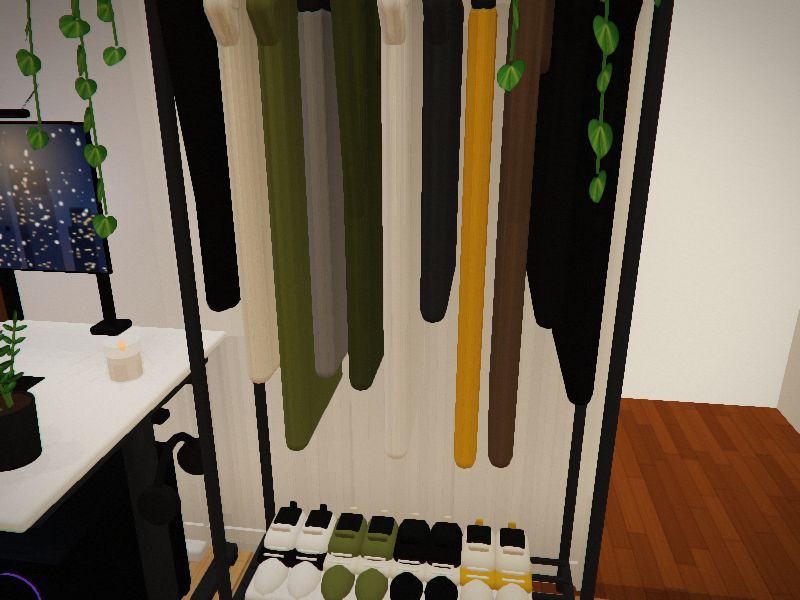
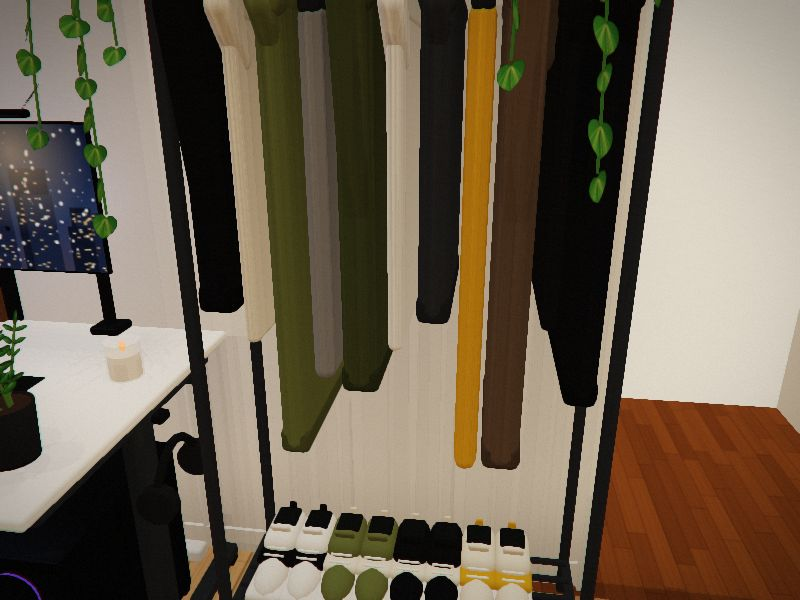
Séance 32 (suite) : vêtements du portant plus réalistes (épaisseurs, bord-côte)
Claude-Session: https://claude.ai/code/session_01SepMHyEogJJnegoMaCAg7f

diff --git a/index.html b/index.html
@@ -525,8 +525,9 @@ Lathe(158,0,92,[[0,0],[11,0],[12,26],[11.4,26],[10.4,1],[0,1]],M(0xF4F4F2,{rough
   add(new THREE.Mesh(new THREE.TubeGeometry(new THREE.QuadraticBezierCurve3(new THREE.Vector3(0,-4,-20),new THREE.Vector3(0,3,0),new THREE.Vector3(0,-4,20)),12,.5,6),M(0x111111)),g);
   const cm2=M(c,{roughness:1}),kind=i%4;
   if(kind==3){RB(-2,2,-10,-4,-19,19,1.2,M(0x2a2a2a,{metalness:.5}),g,1);RB(-2.4,2.4,-10-L*1.2,-8,-19,-1,2.4,cm2,g,2);RB(-2.4,2.4,-10-L*1.2,-8,1,19,2.4,cm2,g,2)}
-  else{RB(-2.6,2.6,-8-L,-4,-19,19,3,cm2,g,2);RB(-2.4,2.4,-11,-3,-23,23,4,cm2,g,2);
-   [-1,1].forEach(sd=>{const sl=Grp(0,-6,sd*22,0,g);sl.rotation.x=sd*(kind==0?.18:.75);RB(-2.2,2.2,kind==0?-L*.95:-16,0,-4,4,2.2,cm2,sl,2);if(kind==0)RB(-2.4,2.4,-L*.95-6,-L*.95,-3.4,3.4,1.6,cm2,sl,1)});
+  else{const th=[3.8,1.5,3.1][kind],Lk=kind==1?Math.min(L,64):L;RB(-th,th,-8-Lk,-4,-19,19,Math.min(3,th*.95),cm2,g,2);RB(-th-.3,th+.3,-11,-3,-23,23,Math.min(4,th+.2),cm2,g,2);
+   if(kind!=1){const dk=((c>>16&255)*.8<<16)|((c>>8&255)*.8<<8)|((c&255)*.8|0);RB(-th-.25,th+.25,-8-Lk,-2-Lk,-18.6,18.6,Math.min(1.6,th),M(dk,{roughness:1}),g,1)}
+   [-1,1].forEach(sd=>{const sl=Grp(0,-6,sd*22,0,g);sl.rotation.x=sd*(kind==0?.18:.75);RB(-2.2-(kind==0)*.8,2.2+(kind==0)*.8,kind==0?-L*.95:-16,0,-4,4,2.2,cm2,sl,2);if(kind==0)RB(-3.2,3.2,-L*.95-6,-L*.95,-3.4,3.4,1.6,cm2,sl,1)});
    if(kind==0){RB(-2,6,-20,-2,-10,10,4,cm2,g,2);RB(-2.8,-2.4,-36-L*.3,-28,-7,7,1.5,cm2,g,1)}}}
  [[178,0xF4F2EC,C.black],[196,C.olive,0xEDE5D3],[214,C.black,0xEDE5D3],[232,0xEDE5D3,C.jaune]].forEach(([x,c,a],i)=>{sneaker(x,14,20,c,a,0);sneaker(x+9,14,20,c,a,0)});
  Lathe(240,176,30,[[0,0],[5,0],[6.2,10],[5.6,10],[4.6,1],[0,1]],M(0xC56B45,{roughness:.8}),18);Cy(240,30,184.6,185.2,5.5,M(0x3b2c22,{roughness:1}),null,14);pothos(240,185,30,[[-6,16,42],[5,18,58],[10,15,30]])}

diff --git a/source/room.js b/source/room.js
@@ -361,8 +361,9 @@ Lathe(158,0,92,[[0,0],[11,0],[12,26],[11.4,26],[10.4,1],[0,1]],M(0xF4F4F2,{rough
   add(new THREE.Mesh(new THREE.TubeGeometry(new THREE.QuadraticBezierCurve3(new THREE.Vector3(0,-4,-20),new THREE.Vector3(0,3,0),new THREE.Vector3(0,-4,20)),12,.5,6),M(0x111111)),g);
   const cm2=M(c,{roughness:1}),kind=i%4;
   if(kind==3){RB(-2,2,-10,-4,-19,19,1.2,M(0x2a2a2a,{metalness:.5}),g,1);RB(-2.4,2.4,-10-L*1.2,-8,-19,-1,2.4,cm2,g,2);RB(-2.4,2.4,-10-L*1.2,-8,1,19,2.4,cm2,g,2)}
-  else{RB(-2.6,2.6,-8-L,-4,-19,19,3,cm2,g,2);RB(-2.4,2.4,-11,-3,-23,23,4,cm2,g,2);
-   [-1,1].forEach(sd=>{const sl=Grp(0,-6,sd*22,0,g);sl.rotation.x=sd*(kind==0?.18:.75);RB(-2.2,2.2,kind==0?-L*.95:-16,0,-4,4,2.2,cm2,sl,2);if(kind==0)RB(-2.4,2.4,-L*.95-6,-L*.95,-3.4,3.4,1.6,cm2,sl,1)});
+  else{const th=[3.8,1.5,3.1][kind],Lk=kind==1?Math.min(L,64):L;RB(-th,th,-8-Lk,-4,-19,19,Math.min(3,th*.95),cm2,g,2);RB(-th-.3,th+.3,-11,-3,-23,23,Math.min(4,th+.2),cm2,g,2);
+   if(kind!=1){const dk=((c>>16&255)*.8<<16)|((c>>8&255)*.8<<8)|((c&255)*.8|0);RB(-th-.25,th+.25,-8-Lk,-2-Lk,-18.6,18.6,Math.min(1.6,th),M(dk,{roughness:1}),g,1)}
+   [-1,1].forEach(sd=>{const sl=Grp(0,-6,sd*22,0,g);sl.rotation.x=sd*(kind==0?.18:.75);RB(-2.2-(kind==0)*.8,2.2+(kind==0)*.8,kind==0?-L*.95:-16,0,-4,4,2.2,cm2,sl,2);if(kind==0)RB(-3.2,3.2,-L*.95-6,-L*.95,-3.4,3.4,1.6,cm2,sl,1)});
    if(kind==0){RB(-2,6,-20,-2,-10,10,4,cm2,g,2);RB(-2.8,-2.4,-36-L*.3,-28,-7,7,1.5,cm2,g,1)}}}
  [[178,0xF4F2EC,C.black],[196,C.olive,0xEDE5D3],[214,C.black,0xEDE5D3],[232,0xEDE5D3,C.jaune]].forEach(([x,c,a],i)=>{sneaker(x,14,20,c,a,0);sneaker(x+9,14,20,c,a,0)});
  Lathe(240,176,30,[[0,0],[5,0],[6.2,10],[5.6,10],[4.6,1],[0,1]],M(0xC56B45,{roughness:.8}),18);Cy(240,30,184.6,185.2,5.5,M(0x3b2c22,{roughness:1}),null,14);pothos(240,185,30,[[-6,16,42],[5,18,58],[10,15,30]])}

diff --git a/evolution/sessions.js b/evolution/sessions.js
@@ -11,7 +11,8 @@ window.SESSIONS = [
       "La souris a la forme bombée de la G305 (11,6 x 6,2 cm) avec sa molette, au lieu d'une simple boule",
       "La plante du bureau devient une plante ZZ réaliste (tiges arquées, feuilles brillantes par paires) au lieu de boules vertes",
       "La plante en haut du portant (des boules vertes) devient un vrai pothos dont les tiges retombent devant les vêtements",
-      "VR : 0 erreur, moins de triangles qu'avant (~165 k)"
+      "Vêtements du portant plus réalistes : t-shirts fins, sweats et vestes plus épais, bord-côte plus foncé en bas des sweats",
+      "VR : 0 erreur, moins de triangles qu'avant (~166 k)"
     ],
     images: [
       ["bureau32", "Bureau (jour)"],

diff --git a/JOURNAL.md b/JOURNAL.md
@@ -243,4 +243,5 @@ Vues de contrôle fixes (tools/preview.py) :
 - Plante du bureau : ZZ (7 tiges arquées, 5 paires de feuilles ovales brillantes, texture `zzT`) + terreau.
 - Vues de contrôle : seules les vues du bureau changent. VR : 0 erreur, 404 lots, ~169 k triangles. Scores : meubles 9,75 → 10 → **63,75 → 64/70**.
 - Même séance : plante en haut du portant (9 sphères) → pot avancé en z 30 + `pothos()` dont 3 tiges retombent devant (elles ne traversent plus le plateau). Plus aucune plante en sphères dans la scène. VR : 405 lots, ~165 k triangles.
-- Ensuite : câbles des écrans le long des bras ; vêtements du portant plus variés (épaisseur, capuches) ; reflets légers sur le parquet.
+- Vêtements : épaisseur selon le type (sweat 7,6 cm, t-shirt 3 cm et plus court, veste 6,2 cm), bord-côte 20 % plus foncé en bas des sweats/vestes, manches des sweats plus épaisses. VR : 411 lots, ~166 k triangles.
+- Ensuite : câbles des écrans le long des bras ; reflets légers sur le parquet.
